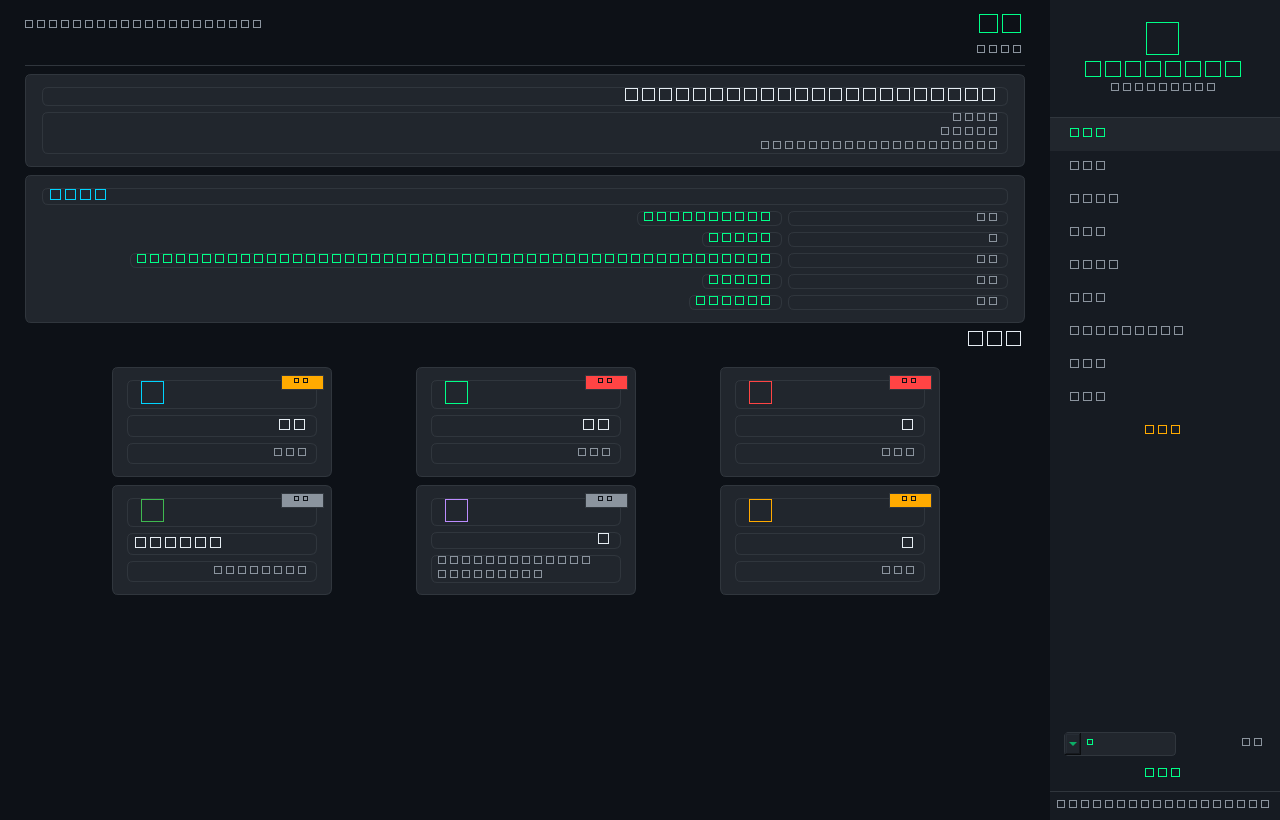
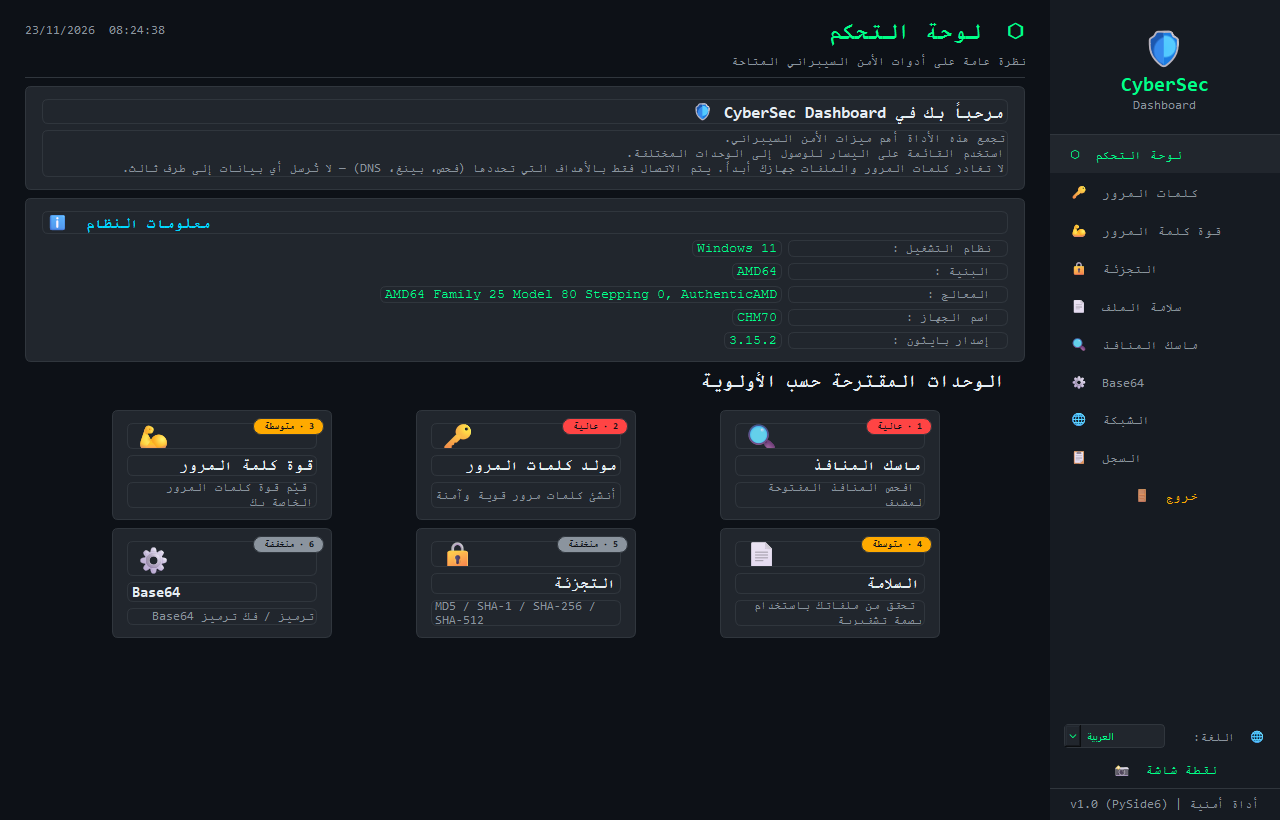
fix(capture): rendu natif des emoji et images de démonstration régénérées

diff --git a/tools/screenshots.py b/tools/screenshots.py
@@ -1,11 +1,15 @@
-"""Génère des captures PNG de l'application, sans fenêtre visible.
+"""Génère des captures PNG de l'application, avec ou sans fenêtre visible.
 
-Le mode Qt ``offscreen`` est activé avant tout import PySide6 afin que le
-script fonctionne de la même façon sur Windows, macOS et Linux (y compris en CI).
+Par défaut, le mode Qt ``offscreen`` est utilisé : le script fonctionne partout,
+y compris en CI, mais les emoji y sont rendus en monochrome.
+
+Avec ``--native``, la plateforme graphique du système est utilisée afin
+d'obtenir les emoji en couleur. Un affichage est alors nécessaire.
 
 Exemples :
     python tools/screenshots.py
-    python tools/screenshots.py --pages dashboard,scanner --out docs/screenshots
+    python tools/screenshots.py --native
+    python tools/screenshots.py --native --pages dashboard,scanner
 """
 
 import argparse
@@ -13,16 +17,9 @@ import os
 import sys
 from pathlib import Path
 
-os.environ.setdefault("QT_QPA_PLATFORM", "offscreen")
-
 ROOT = Path(__file__).resolve().parents[1]
 if str(ROOT) not in sys.path:
     sys.path.insert(0, str(ROOT))
-
-from PySide6.QtWidgets import QApplication  # noqa: E402
-
-from main import CyberSecApp  # noqa: E402
-from src.i18n import I18N  # noqa: E402
 
 LANGUAGES = ("fr", "en", "ar")
 PAGES = (
@@ -41,7 +38,30 @@ def parse_args(argv=None):
         "--out", default="docs/screenshots", type=Path,
         help="Dossier de sortie (défaut : docs/screenshots).",
     )
+    parser.add_argument(
+        "--native", action="store_true",
+        help="Utiliser la plateforme graphique système (emoji en couleur).",
+    )
     return parser.parse_args(argv)
+
+
+def configure_platform(native=False):
+    """Choisit la plateforme Qt avant tout import PySide6."""
+    if native:
+        if sys.platform == "win32":
+            os.environ["QT_QPA_PLATFORM"] = "windows"
+        elif sys.platform == "darwin":
+            os.environ["QT_QPA_PLATFORM"] = "cocoa"
+        elif os.environ.get("WAYLAND_DISPLAY"):
+            os.environ.setdefault("QT_QPA_PLATFORM", "wayland")
+        elif os.environ.get("DISPLAY"):
+            os.environ.setdefault("QT_QPA_PLATFORM", "xcb")
+        else:
+            raise SystemExit(
+                "Aucun affichage détecté : retirez --native pour le mode offscreen."
+            )
+    else:
+        os.environ.setdefault("QT_QPA_PLATFORM", "offscreen")
 
 
 def normalize_pages(raw):
@@ -59,6 +79,8 @@ def normalize_pages(raw):
 
 def capture_page(app, window, page, lang, out_dir):
     """Reconstruit l'UI dans ``lang`` puis enregistre ``page`` en PNG."""
+    from src.i18n import I18N  # import différé : la langue est configurée avant
+
     window.lang_combo.blockSignals(True)
     window.lang_combo.setCurrentIndex(LANGUAGES.index(lang))
     window.lang_combo.blockSignals(False)
@@ -69,7 +91,11 @@ def capture_page(app, window, page, lang, out_dir):
     target = out_dir / f"{page}-{lang}.png"
     if not window.grab().save(str(target), "PNG"):
         raise RuntimeError(f"Capture impossible : {target}")
-    print(target.relative_to(ROOT).as_posix())
+    try:
+        shown = target.relative_to(ROOT).as_posix()
+    except ValueError:
+        shown = str(target)
+    print(shown)
 
 
 def main(argv=None):
@@ -77,6 +103,11 @@ def main(argv=None):
     pages = normalize_pages(args.pages)
     out_dir = args.out if args.out.is_absolute() else ROOT / args.out
     out_dir.mkdir(parents=True, exist_ok=True)
+    configure_platform(args.native)
+
+    # Imports Qt différés : la plateforme doit être choisie avant ceux-ci.
+    from PySide6.QtWidgets import QApplication
+    from main import CyberSecApp
 
     app = QApplication.instance() or QApplication([])
     window = CyberSecApp()

diff --git a/tests/test_screenshots.py b/tests/test_screenshots.py
@@ -1,8 +1,10 @@
 """Tests de l'outil de génération de captures hors écran."""
 
+from pathlib import Path
+
 import pytest
 
-from tools.screenshots import LANGUAGES, normalize_pages
+from tools.screenshots import LANGUAGES, normalize_pages, parse_args
 
 
 def test_language_order_matches_selector():
@@ -22,3 +24,10 @@ def test_normalize_pages_strips_and_deduplicates():
 def test_normalize_pages_rejects_unknown_page():
     with pytest.raises(SystemExit):
         normalize_pages("page-inexistante")
+
+
+def test_parse_args_supports_native_and_custom_output():
+    args = parse_args(["--native", "--pages", "scanner", "--out", "captures"])
+    assert args.native is True
+    assert args.pages == "scanner"
+    assert args.out == Path("captures")

diff --git a/README.ar.md b/README.ar.md
@@ -3,7 +3,7 @@
 [![Python app](https://github.com/CHM2026/Local-Cybersec-Partner/actions/workflows/python-app.yml/badge.svg?branch=main)](https://github.com/CHM2026/Local-Cybersec-Partner/actions/workflows/python-app.yml)
 [![Python 3.15+](https://img.shields.io/badge/python-3.15%2B-blue.svg)](https://www.python.org/downloads/)
 [![PySide6](https://img.shields.io/badge/Qt-PySide6%20%E2%89%A5%206.12-green.svg)](https://pypi.org/project/PySide6/)
-[![Tests](https://img.shields.io/badge/tests-26%20passed-brightgreen.svg)](https://github.com/CHM2026/Local-Cybersec-Partner/actions/workflows/python-app.yml)
+[![Tests](https://img.shields.io/badge/tests-27%20passed-brightgreen.svg)](https://github.com/CHM2026/Local-Cybersec-Partner/actions/workflows/python-app.yml)
 
 > اللغات: [Français](README.md) · [English](README.en.md) · **العربية**
 
@@ -111,7 +111,15 @@ python tools/screenshots.py
 python tools/screenshots.py --pages dashboard,scanner --out docs/screenshots
 ```
 
-يُنشئ السكربت `docs/screenshots/<page>-<language>.png` للفرنسية والإنجليزية والعربية دون فتح أي نافذة (`QT_QPA_PLATFORM=offscreen`). على Windows استخدم `.\.venv\Scripts\python.exe tools\screenshots.py` عند الحاجة.
+يُنشئ السكربت `docs/screenshots/<page>-<language>.png` للفرنسية والإنجليزية والعربية. افتراضياً يعمل في وضع `offscreen` (بدون نافذة، مثالي لـ CI)، لكن الرموز التعبيرية تظهر بالأبيض والأسود.
+
+للحصول على **رموز تعبيرية ملوّنة**، أضف `--native` (يتطلب وجود شاشة):
+
+```bash
+python tools/screenshots.py --native
+```
+
+الصور المعروضة أعلاه أُنشئت باستخدام `--native`. على Windows استخدم `.\.venv\Scripts\python.exe tools\screenshots.py --native` عند الحاجة.
 
 ## البنية
 

diff --git a/README.md b/README.md
@@ -3,7 +3,7 @@
 [![Python app](https://github.com/CHM2026/Local-Cybersec-Partner/actions/workflows/python-app.yml/badge.svg?branch=main)](https://github.com/CHM2026/Local-Cybersec-Partner/actions/workflows/python-app.yml)
 [![Python 3.15+](https://img.shields.io/badge/python-3.15%2B-blue.svg)](https://www.python.org/downloads/)
 [![PySide6](https://img.shields.io/badge/Qt-PySide6%20%E2%89%A5%206.12-green.svg)](https://pypi.org/project/PySide6/)
-[![Tests](https://img.shields.io/badge/tests-26%20passed-brightgreen.svg)](https://github.com/CHM2026/Local-Cybersec-Partner/actions/workflows/python-app.yml)
+[![Tests](https://img.shields.io/badge/tests-27%20passed-brightgreen.svg)](https://github.com/CHM2026/Local-Cybersec-Partner/actions/workflows/python-app.yml)
 
 > Langues : **Français** · [English](README.en.md) · [العربية](README.ar.md)
 
@@ -111,7 +111,15 @@ python tools/screenshots.py
 python tools/screenshots.py --pages dashboard,scanner --out docs/screenshots
 ```
 
-Le script génère `docs/screenshots/<page>-<langue>.png` pour le français, l’anglais et l’arabe, sans ouvrir de fenêtre (`QT_QPA_PLATFORM=offscreen`). Sur Windows, utilisez `.\.venv\Scripts\python.exe tools\screenshots.py` si nécessaire.
+Le script génère `docs/screenshots/<page>-<langue>.png` pour le français, l’anglais et l’arabe. Par défaut, il tourne en mode `offscreen` (aucune fenêtre, idéal en CI), mais les emoji y sont rendus en monochrome.
+
+Pour obtenir des captures avec les **emoji en couleur**, ajoutez `--native` (un affichage est nécessaire) :
+
+```bash
+python tools/screenshots.py --native
+```
+
+Les images présentées ci-dessus ont été générées avec `--native`. Sur Windows, utilisez `.\.venv\Scripts\python.exe tools\screenshots.py --native` si nécessaire.
 
 ## Structure
 

diff --git a/README.en.md b/README.en.md
@@ -3,7 +3,7 @@
 [![Python app](https://github.com/CHM2026/Local-Cybersec-Partner/actions/workflows/python-app.yml/badge.svg?branch=main)](https://github.com/CHM2026/Local-Cybersec-Partner/actions/workflows/python-app.yml)
 [![Python 3.15+](https://img.shields.io/badge/python-3.15%2B-blue.svg)](https://www.python.org/downloads/)
 [![PySide6](https://img.shields.io/badge/Qt-PySide6%20%E2%89%A5%206.12-green.svg)](https://pypi.org/project/PySide6/)
-[![Tests](https://img.shields.io/badge/tests-26%20passed-brightgreen.svg)](https://github.com/CHM2026/Local-Cybersec-Partner/actions/workflows/python-app.yml)
+[![Tests](https://img.shields.io/badge/tests-27%20passed-brightgreen.svg)](https://github.com/CHM2026/Local-Cybersec-Partner/actions/workflows/python-app.yml)
 
 > Languages: [Français](README.md) · **English** · [العربية](README.ar.md)
 
@@ -111,7 +111,15 @@ python tools/screenshots.py
 python tools/screenshots.py --pages dashboard,scanner --out docs/screenshots
 ```
 
-The script generates `docs/screenshots/<page>-<language>.png` for French, English and Arabic without opening a window (`QT_QPA_PLATFORM=offscreen`). On Windows, use `.\.venv\Scripts\python.exe tools\screenshots.py` if needed.
+The script generates `docs/screenshots/<page>-<language>.png` for French, English and Arabic. By default it runs in `offscreen` mode (no window, ideal for CI), but emoji are rendered in monochrome.
+
+For **colour emoji**, add `--native` (a display is required):
+
+```bash
+python tools/screenshots.py --native
+```
+
+The images shown above were generated with `--native`. On Windows, use `.\.venv\Scripts\python.exe tools\screenshots.py --native` if needed.
 
 ## Structure
 
